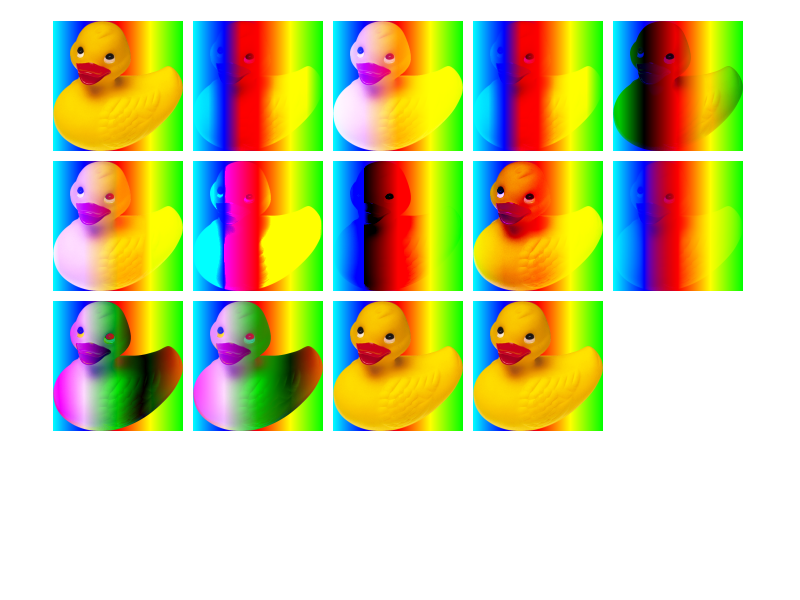
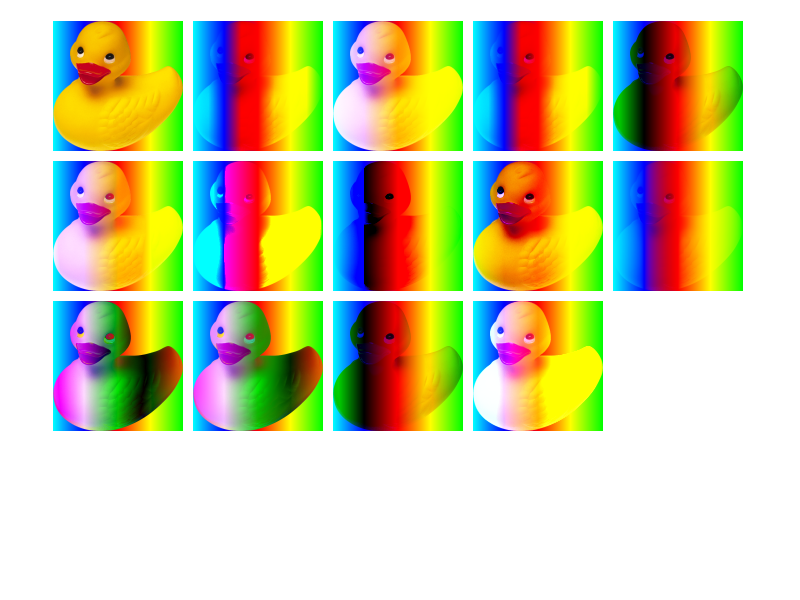
Define BlendModes PlusLighter and PlusDarker the same way as CompositionOperations

Changed region(s): [[0.4062, 0.48, 0.75, 0.72]]

diff --git a/Source/WebCore/platform/graphics/qt/GraphicsContextQt.cpp b/Source/WebCore/platform/graphics/qt/GraphicsContextQt.cpp
@@ -151,6 +151,11 @@ static inline QPainter::CompositionMode toQtCompositionMode(BlendMode op)
         return QPainter::CompositionMode_Difference;
     case BlendModeExclusion:
         return QPainter::CompositionMode_Exclusion;
+    case BlendModePlusLighter:
+        return QPainter::CompositionMode_Plus;
+    case BlendModePlusDarker:
+        // there is no exact match, but this is the closest
+        return QPainter::CompositionMode_Darken;
     case BlendModeHue:
     case BlendModeSaturation:
     case BlendModeColor:
